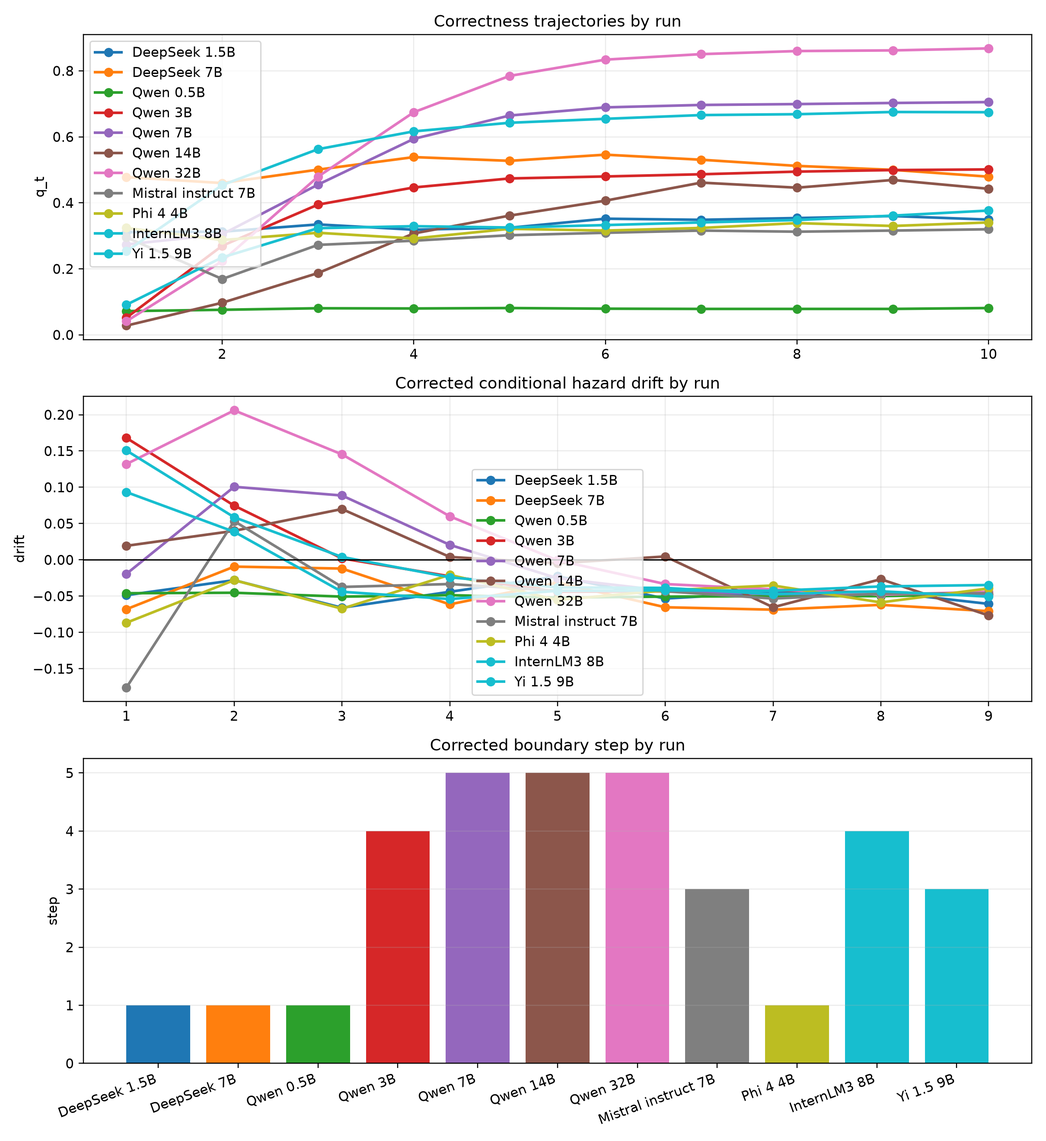
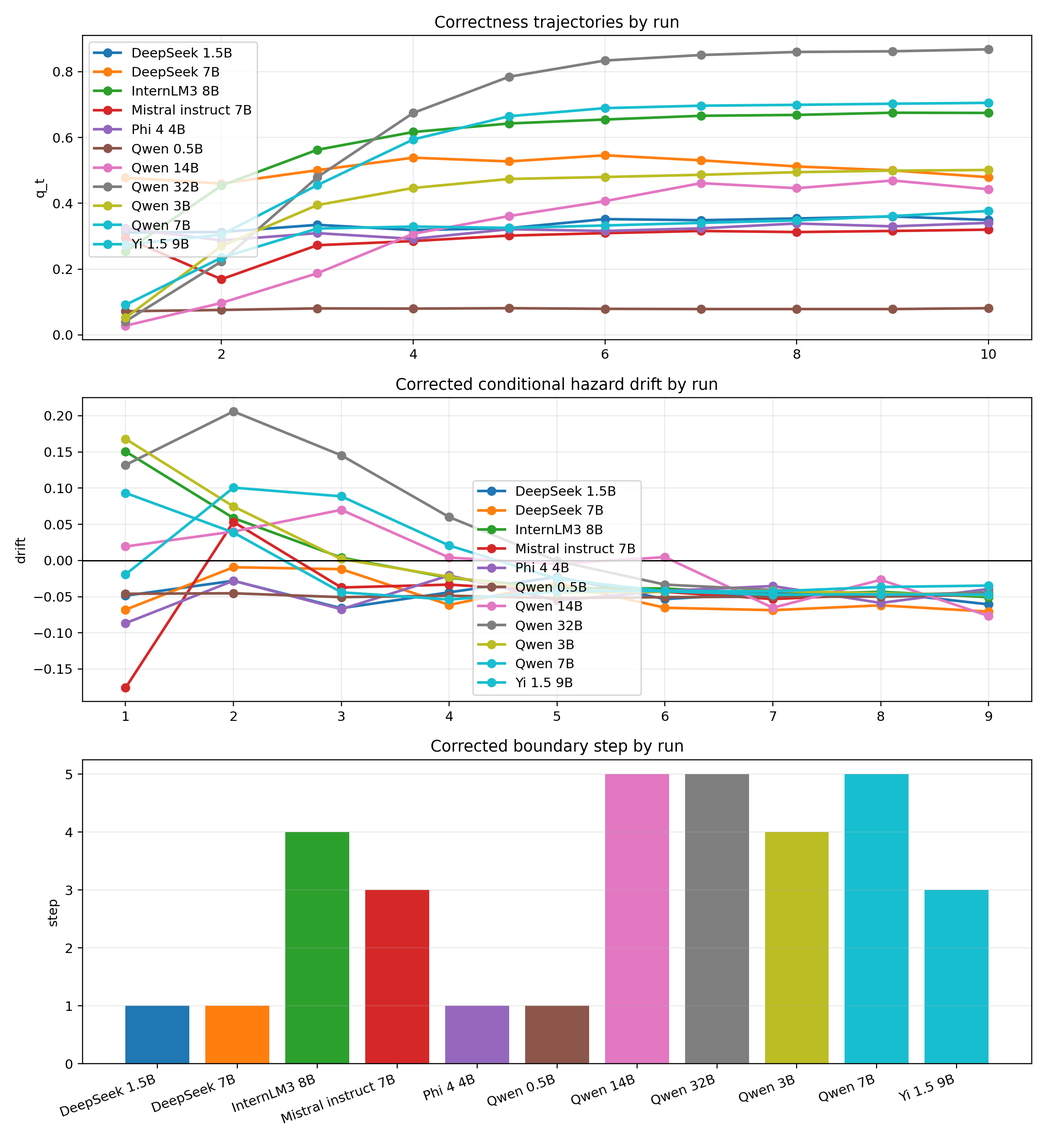
feat: data-driven cross-family summary + MATH dataset parser
- cross_family_analysis.py: replace hardcoded "Qwen 7B is the only late
  witness" executive summary and open-questions text with data-driven prose
  computed from the actual runs (counts, families, specific runs/boundaries),
  so it can't go stale as the model set grows. Regenerated the 11-model
  GSM8K cross-family report with the corrected summary.
- real_trace_experiments.py: add MATH support -- load_math_tasks
  (HuggingFaceH4/MATH-500, fallback lighteval/MATH), answer_type "math" with
  LaTeX-normalizing + numeric + sympy(^->**, implicit-mult) equivalence
  grading; wire verify_answer/normalize_answer/extract_typed_answer/load_tasks
  and add "math" to --task-source choices.
- run_experiment_matrix.py: register "math" in the DATASETS registry.

diff --git a/research/real_trace_experiments.py b/research/real_trace_experiments.py
@@ -515,7 +515,76 @@ def extract_numeric_candidate(text: str) -> str:
     return ""
 
 
+def _strip_latex_math(text: str) -> str:
+    """Reduce a LaTeX/competition-math answer to a compact comparable form."""
+    s = str(text).strip()
+    if "=" in s and not any(op in s for op in ("<=", ">=", "==", "!=")):
+        s = s.split("=")[-1].strip()  # keep the RHS of "x = ..."
+    s = re.sub(r"^\$+|\$+$", "", s).strip()
+    boxed = re.findall(r"\\boxed\{(.+?)\}", s)
+    if boxed:
+        s = boxed[-1]
+    s = re.sub(r"\\(?:text|mathrm|mbox|mathbf|mathit|operatorname)\s*\{([^{}]*)\}", r"\1", s)
+    s = s.replace("\\dfrac", "\\frac").replace("\\tfrac", "\\frac")
+    s = re.sub(r"\\frac\{([^{}]+)\}\{([^{}]+)\}", r"((\1)/(\2))", s)
+    s = re.sub(r"\\frac\s*(\d)\s*(\d)", r"((\1)/(\2))", s)
+    s = re.sub(r"\\sqrt\{([^{}]+)\}", r"sqrt(\1)", s)
+    s = re.sub(r"\\sqrt\s*(\w)", r"sqrt(\1)", s)
+    s = s.replace("\\cdot", "*").replace("\\times", "*").replace("\\div", "/").replace("\\pi", "pi")
+    for token in ("\\left", "\\right", "\\!", "\\,", "\\;", "\\:", "\\ ", "\\$",
+                  "\\(", "\\)", "\\[", "\\]", "^{\\circ}", "^\\circ", "\\circ", "\\%", "%", "$"):
+        s = s.replace(token, "")
+    s = s.replace("{", "").replace("}", "").replace("\\", "")
+    s = re.sub(r"(?<=\d),(?=\d{3}\b)", "", s)  # 1,000 -> 1000
+    return s.replace(" ", "").rstrip(".").strip()
+
+
+def normalize_math_answer(raw_answer: str) -> str:
+    if raw_answer is None:
+        return ""
+    s = _strip_latex_math(raw_answer)
+    if s == "":
+        return ""
+    bare = s.replace("(", "").replace(")", "")
+    if re.fullmatch(r"-?\d+(\.\d+)?", bare) or re.fullmatch(r"-?\d+/-?\d+", bare):
+        try:
+            frac = Fraction(bare).limit_denominator(10**6)
+            return str(frac.numerator) if frac.denominator == 1 else f"{frac.numerator}/{frac.denominator}"
+        except (ValueError, ZeroDivisionError):
+            pass
+    return s.lower()
+
+
+def math_answers_equivalent(candidate: str, expected: str) -> bool:
+    norm_candidate = normalize_math_answer(candidate)
+    norm_expected = normalize_math_answer(expected)
+    if not norm_expected:
+        return False
+    if norm_candidate == norm_expected:
+        return True
+    try:
+        if abs(float(norm_candidate) - float(norm_expected)) < 1e-6:
+            return True
+    except (ValueError, TypeError):
+        pass
+    try:  # symbolic fallback; sympy ships as an indirect torch dependency
+        import sympy
+        from sympy.parsing.sympy_parser import (
+            parse_expr, standard_transformations, implicit_multiplication_application,
+        )
+        transforms = standard_transformations + (implicit_multiplication_application,)
+        expr_a = parse_expr(norm_candidate.replace("^", "**"), transformations=transforms)
+        expr_b = parse_expr(norm_expected.replace("^", "**"), transformations=transforms)
+        if sympy.simplify(expr_a - expr_b) == 0:
+            return True
+    except Exception:  # noqa: BLE001 -- unparseable expressions just fall through
+        pass
+    return False
+
+
 def normalize_answer(raw_answer: str, answer_type: str) -> str:
+    if answer_type == "math":
+        return normalize_math_answer(raw_answer)
     text = raw_answer.strip().lower()
     text = re.sub(r"\s+", " ", text)
     boxed_matches = re.findall(r"\\boxed\{([^{}]+)\}", text)
@@ -542,6 +611,8 @@ def normalize_answer(raw_answer: str, answer_type: str) -> str:
 
 
 def verify_answer(task: TaskSpec, candidate_answer: str) -> bool:
+    if task.answer_type == "math":
+        return math_answers_equivalent(candidate_answer, task.expected_answer)
     return normalize_answer(candidate_answer, task.answer_type) == normalize_answer(task.expected_answer, task.answer_type)
 
 
@@ -633,6 +704,9 @@ def extract_typed_answer(text: str, answer_type: str) -> str:
     boxed_matches = re.findall(r"\\boxed\{([^{}]+)\}", stripped)
     if boxed_matches:
         stripped = boxed_matches[-1].strip()
+
+    if answer_type == "math":
+        return stripped.strip()
 
     lowered = stripped.lower()
     if answer_type == "day":
@@ -818,11 +892,65 @@ def load_gsm8k_tasks(max_tasks: int, dataset_split: str, shuffle_seed: int | Non
     return tasks
 
 
+def load_math_tasks(max_tasks: int, dataset_split: str, shuffle_seed: int | None) -> list[TaskSpec]:
+    """Competition MATH. Uses HuggingFaceH4/MATH-500 (500 problems, openly
+    available); falls back to lighteval/MATH. Answers are graded with
+    math_answers_equivalent (LaTeX-normalized + numeric + sympy fallback)."""
+    if load_dataset is None:
+        raise ImportError("datasets is required for --task-source math. Install it with pip install datasets.")
+    split = dataset_split if dataset_split and dataset_split not in {"train", "main"} else "test"
+    dataset = None
+    last_exc: Exception | None = None
+    for repo, kwargs in (("HuggingFaceH4/MATH-500", {}), ("lighteval/MATH", {"name": "all"})):
+        try:
+            dataset = load_dataset(repo, split=split, **kwargs)
+            break
+        except Exception as exc:  # noqa: BLE001 -- try the next source
+            last_exc = exc
+    if dataset is None:
+        raise RuntimeError(
+            "Failed to load a MATH dataset (tried HuggingFaceH4/MATH-500 and lighteval/MATH). "
+            f"Check HuggingFace access on the VM. Error details: {last_exc}"
+        )
+    if shuffle_seed is not None:
+        dataset = dataset.shuffle(seed=shuffle_seed)
+    if max_tasks > 0 and len(dataset) > max_tasks:
+        dataset = dataset.select(range(max_tasks))
+
+    split_name = sanitize_split_name(split)
+    tasks: list[TaskSpec] = []
+    for index, example in enumerate(dataset):
+        problem = str(example.get("problem", "")).strip()
+        answer = example.get("answer")
+        if answer is None or str(answer).strip() == "":
+            boxed = re.findall(r"\\boxed\{(.+?)\}", str(example.get("solution", "")))
+            answer = boxed[-1] if boxed else str(example.get("solution", ""))
+        level = str(example.get("level", "")).strip()
+        subject = str(example.get("subject", example.get("type", ""))).strip()
+        short_hash = hashlib.md5(problem.encode("utf-8")).hexdigest()[:8]
+        tasks.append(
+            TaskSpec(
+                task_id=f"math_{split_name}_{index:05d}_{short_hash}",
+                domain="math",
+                difficulty=(f"MATH {level}".strip() or "competition_math"),
+                prompt=problem,
+                answer_type="math",
+                expected_answer=str(answer).strip(),
+                notes=f"MATH split={split} subject={subject} level={level}",
+                source="math",
+                source_index=index,
+            )
+        )
+    return tasks
+
+
 def load_tasks(task_source: str, max_tasks: int, dataset_split: str, shuffle_seed: int | None) -> list[TaskSpec]:
     if task_source == "builtin":
         return BUILTIN_TASKS[:max_tasks]
     if task_source == "gsm8k":
         return load_gsm8k_tasks(max_tasks=max_tasks, dataset_split=dataset_split, shuffle_seed=shuffle_seed)
+    if task_source == "math":
+        return load_math_tasks(max_tasks=max_tasks, dataset_split=dataset_split, shuffle_seed=shuffle_seed)
     raise ValueError(f"Unsupported task source: {task_source}")
 
 
@@ -1987,7 +2115,7 @@ def main() -> None:
     parser.add_argument("--max-steps", type=int, default=5)
     parser.add_argument("--max-new-tokens", type=int, default=256)
     parser.add_argument("--max-tasks", type=int, default=len(BUILTIN_TASKS))
-    parser.add_argument("--task-source", default="builtin", choices=["builtin", "gsm8k"])
+    parser.add_argument("--task-source", default="builtin", choices=["builtin", "gsm8k", "math"])
     parser.add_argument("--dataset-split", default="train")
     parser.add_argument("--dataset-shuffle-seed", type=int, default=17)
     parser.add_argument("--batch-size", type=int, default=4)

diff --git a/research/cross_family_analysis.py b/research/cross_family_analysis.py
@@ -365,23 +365,52 @@ def markdown_table(headers: list[str], rows: list[list[str]]) -> list[str]:
     return lines
 
 
+def _run_listing(df: pd.DataFrame) -> str:
+    parts = []
+    for _, row in df.iterrows():
+        boundary = row["corrected_boundary_step"]
+        boundary = "n/a" if pd.isna(boundary) else f"step {int(boundary)}"
+        parts.append(f"{row['run_label']} ({boundary})")
+    return "; ".join(parts)
+
+
 def strongest_cross_family_conclusion(summary_df: pd.DataFrame) -> str:
+    # Data-driven: computed from the actual runs so it never goes stale as the
+    # model set grows. Reports counts/families/specific runs rather than naming
+    # fixed models.
     capable = summary_df[summary_df["capability_gate_met"] == True]
-    strong_late = capable[capable["late_boundary_assessment"].isin(["Exact step-7 replication", "Late-boundary replication"])]
-    supportive_late = capable[
-        capable["late_boundary_assessment"].isin(
-            ["Exact step-7 replication", "Late-boundary replication", "Weakened late-boundary support"]
-        )
-    ]
     if capable.empty:
         return "No run currently clears the capability gate, so the repo still lacks a theorem-facing cross-family boundary witness."
-    if strong_late["family"].nunique() >= 2:
-        return "A materially late overthinking boundary now appears in at least two capable families under the matched GSM8K protocol, so cross-family support is materially stronger."
-    if strong_late["family"].nunique() == 1 and supportive_late["family"].nunique() >= 2:
-        return "Qwen 7B remains the only clearly late corrected-boundary witness, but Mistral 7B now adds a weaker non-Qwen step-3 boundary with a large never-stop penalty. Cross-family evidence is therefore stronger than a single-family story, but full late-boundary robustness is still unproven."
-    if supportive_late["family"].nunique() == 1:
-        return "Late-boundary evidence is still confined to a single capable family, so cross-family robustness remains unproven."
-    return "After the hazard audit, the current matched GSM8K evidence does not support a late conditional-hazard boundary in any available run."
+    strong = capable[capable["late_boundary_assessment"].isin(["Exact step-7 replication", "Late-boundary replication"])]
+    supportive = capable[capable["late_boundary_assessment"].isin(
+        ["Exact step-7 replication", "Late-boundary replication", "Weakened late-boundary support"])]
+    strong_fams = sorted(strong["family"].unique())
+    sup_fams = sorted(supportive["family"].unique())
+
+    if strong.empty:
+        if supportive.empty:
+            return "No capable run shows a late corrected boundary under the matched protocol."
+        return (f"No run shows a clearly late corrected boundary, but {len(supportive)} capable run(s) across "
+                f"{len(sup_fams)} family/families ({', '.join(sup_fams)}) show weaker late-boundary support: "
+                f"{_run_listing(supportive)}.")
+
+    sentence = (f"A clearly late corrected boundary replicates in {len(strong)} capable run(s) across "
+                f"{len(strong_fams)} family/families: {_run_listing(strong)}.")
+    extra = supportive[~supportive.index.isin(strong.index)]
+    if not extra.empty:
+        extra_fams = sorted(extra["family"].unique())
+        sentence += (f" An additional {len(extra)} run(s) across {len(extra_fams)} family/families "
+                     f"({', '.join(extra_fams)}) add weaker late-boundary support: {_run_listing(extra)}.")
+    if len(strong_fams) >= 2:
+        sentence += " Cross-family support for a late overthinking boundary is now strong."
+    elif len(sup_fams) >= 2:
+        sentence += (f" The clearly-late evidence is concentrated in the {strong_fams[0]} family, with weaker "
+                     f"corroboration from {len(sup_fams) - 1} other family/families; cross-family support is "
+                     f"materially stronger than a single-witness story, though a clearly-late non-{strong_fams[0]} "
+                     f"witness is still pending.")
+    else:
+        sentence += " Late-boundary evidence remains confined to a single capable family, so cross-family robustness is not yet established."
+    return sentence
 
 
 def build_report_markdown(
@@ -523,7 +552,12 @@ def open_question_rows(summary_df: pd.DataFrame) -> list[dict[str, str]]:
         boundary_answer = "A materially late boundary is present in at least two capable families under the matched GSM8K protocol."
     elif strong_late_runs["family"].nunique() == 1 and supportive_late_runs["family"].nunique() >= 2:
         boundary_status = "partially answered"
-        boundary_answer = "A clearly late boundary is still supported in only one capable family, but Mistral adds weaker second-family support with a corrected step-3 crossing and a large never-stop penalty. Cross-family robustness is stronger than before, but not yet settled."
+        lone_family = sorted(strong_late_runs["family"].unique())[0]
+        n_other = supportive_late_runs["family"].nunique() - 1
+        boundary_answer = (f"A clearly late boundary replicates within one capable family ({lone_family}, "
+                           f"{len(strong_late_runs)} run(s)), with weaker support from {n_other} other family/families. "
+                           f"Cross-family robustness is materially stronger than a single-witness story, but not fully "
+                           f"settled until a clearly-late non-{lone_family} witness appears.")
     elif supportive_late_runs["family"].nunique() == 1:
         boundary_status = "partially answered"
         boundary_answer = "A late boundary is only supported in one capable family so far, so cross-family robustness is still unproven."

diff --git a/research/run_experiment_matrix.py b/research/run_experiment_matrix.py
@@ -86,7 +86,7 @@ CANONICAL = {
 DATASETS: dict[str, dict[str, Any]] = {
     "gsm8k": {"split": "train", "max_tasks": 500, "max_steps": 10},
     "builtin": {"split": "train", "max_tasks": None, "max_steps": 5},
-    # "math":      {"split": "test", "max_tasks": 500, "max_steps": 14},  # needs parser
+    "math": {"split": "test", "max_tasks": 500, "max_steps": 14},
     # "humaneval": {"split": "test", "max_tasks": 164, "max_steps": 12},  # needs parser
 }
 DEFAULT_DATASETS = ["gsm8k"]

diff --git a/research/outputs/experiment_matrix/_aggregate/gsm8k/CROSS_FAMILY_REPORT.md b/research/outputs/experiment_matrix/_aggregate/gsm8k/CROSS_FAMILY_REPORT.md
@@ -1,7 +1,7 @@
 # Cross-Family Report
 
 ## Executive Summary
-Qwen 7B remains the only clearly late corrected-boundary witness, but Mistral 7B now adds a weaker non-Qwen step-3 boundary with a large never-stop penalty. Cross-family evidence is therefore stronger than a single-family story, but full late-boundary robustness is still unproven.
+A clearly late corrected boundary replicates in 3 capable run(s) across 1 family/families: Qwen 14B (step 5); Qwen 32B (step 5); Qwen 7B (step 5). An additional 4 run(s) across 4 family/families (InternLM3, Mistral instruct, Qwen2.5 instruct, Yi 1.5) add weaker late-boundary support: InternLM3 8B (step 4); Mistral instruct 7B (step 3); Qwen 3B (step 4); Yi 1.5 9B (step 3). The clearly-late evidence is concentrated in the Qwen2.5 instruct family, with weaker corroboration from 3 other family/families; cross-family support is materially stronger than a single-witness story, though a clearly-late non-Qwen2.5 instruct witness is still pending.
 
 Task IDs align across all 11 runs under the shared GSM8K train split and shuffle seed 17 protocol.
 
@@ -10,14 +10,14 @@ Task IDs align across all 11 runs under the shared GSM8K train split and shuffle
 | --- | --- | --- | --- | --- | --- | --- | --- | --- | --- | --- | --- | --- | --- | --- | --- | --- |
 | DeepSeek 1.5B | DeepSeek-R1 distill | 1.5B | transformers+torch(cuda) | none | 0.3113 | 0.3600 | 9 | 1 | 0.2231 | 0.4307 | 0.4436 | 0.4533 | 0.7886 | 0.2140 | 0.6264 | No late-boundary replication |
 | DeepSeek 7B | DeepSeek-R1 distill | 7B | transformers+torch(cuda) | none | 0.4780 | 0.5460 | 6 | 1 | 0.3636 | 0.3499 | 0.3297 | 0.6262 | 0.8275 | 0.1971 | 0.7278 | No late-boundary replication |
-| Qwen 0.5B | Qwen2.5 instruct | 0.5B | transformers+torch(cuda) | none | 0.0720 | 0.0813 | 5 | 1 | 0.0045 | 0.0404 | 0.0870 | 0.0655 | 0.4602 | 0.2411 | 0.5716 | No late-boundary replication |
-| Qwen 3B | Qwen2.5 instruct | 3B | transformers+torch(cuda) | none | 0.0520 | 0.5013 | 10 | 4 | 0.0907 | 0.0830 | 0.2634 | 0.2691 | 0.4918 | 0.2152 | 0.8130 | Weakened late-boundary support |
-| Qwen 7B | Qwen2.5 instruct | 7B | transformers+torch(cuda) | none | 0.2740 | 0.7053 | 10 | 5 | 0.1214 | 0.0634 | 0.2224 | 0.2349 | 0.4442 | 0.1955 | 0.8756 | Late-boundary replication |
-| Qwen 14B | Qwen2.5 instruct | 14B | transformers+torch(cuda) | none | 0.0280 | 0.4693 | 9 | 5 | 0.1427 | 0.2577 | 0.3842 | 0.4294 | 0.5981 | 0.1035 | 0.8948 | Late-boundary replication |
-| Qwen 32B | Qwen2.5 instruct | 32B | transformers+torch(cuda) | none | 0.0413 | 0.8680 | 10 | 5 | 0.2188 | 0.0611 | 0.1814 | 0.1966 | 0.3626 | 0.1526 | 0.9609 | Late-boundary replication |
+| InternLM3 8B | InternLM3 | 8B | transformers+torch(cuda) | none | 0.2533 | 0.6753 | 9 | 4 | 0.1073 | 0.0243 | 0.1914 | 0.2046 | 0.4466 | 0.2159 | 0.8639 | Weakened late-boundary support |
 | Mistral instruct 7B | Mistral instruct | 7B | transformers+torch(cuda) | none | 0.2953 | 0.3200 | 10 | 3 | 0.0526 | 0.1339 | 0.2647 | 0.2506 | 0.5533 | 0.2308 | 0.7294 | Weakened late-boundary support |
 | Phi 4 4B | Phi 4 | 4B | transformers+torch(cuda) | none | 0.3240 | 0.3407 | 10 | 1 | 0.1589 | 0.3427 | 0.4204 | 0.4609 | 0.7795 | 0.2309 | 0.6387 | No late-boundary replication |
-| InternLM3 8B | InternLM3 | 8B | transformers+torch(cuda) | none | 0.2533 | 0.6753 | 9 | 4 | 0.1073 | 0.0243 | 0.1914 | 0.2046 | 0.4466 | 0.2159 | 0.8639 | Weakened late-boundary support |
+| Qwen 0.5B | Qwen2.5 instruct | 0.5B | transformers+torch(cuda) | none | 0.0720 | 0.0813 | 5 | 1 | 0.0045 | 0.0404 | 0.0870 | 0.0655 | 0.4602 | 0.2411 | 0.5716 | No late-boundary replication |
+| Qwen 14B | Qwen2.5 instruct | 14B | transformers+torch(cuda) | none | 0.0280 | 0.4693 | 9 | 5 | 0.1427 | 0.2577 | 0.3842 | 0.4294 | 0.5981 | 0.1035 | 0.8948 | Late-boundary replication |
+| Qwen 32B | Qwen2.5 instruct | 32B | transformers+torch(cuda) | none | 0.0413 | 0.8680 | 10 | 5 | 0.2188 | 0.0611 | 0.1814 | 0.1966 | 0.3626 | 0.1526 | 0.9609 | Late-boundary replication |
+| Qwen 3B | Qwen2.5 instruct | 3B | transformers+torch(cuda) | none | 0.0520 | 0.5013 | 10 | 4 | 0.0907 | 0.0830 | 0.2634 | 0.2691 | 0.4918 | 0.2152 | 0.8130 | Weakened late-boundary support |
+| Qwen 7B | Qwen2.5 instruct | 7B | transformers+torch(cuda) | none | 0.2740 | 0.7053 | 10 | 5 | 0.1214 | 0.0634 | 0.2224 | 0.2349 | 0.4442 | 0.1955 | 0.8756 | Late-boundary replication |
 | Yi 1.5 9B | Yi 1.5 | 9B | transformers+torch(cuda) | none | 0.0913 | 0.3767 | 10 | 3 | 0.1001 | 0.1550 | 0.2582 | 0.2392 | 0.5358 | 0.2206 | 0.7609 | Weakened late-boundary support |
 
 ## Drift Audit
@@ -25,14 +25,14 @@ Task IDs align across all 11 runs under the shared GSM8K train split and shuffle
 | --- | --- | --- | --- | --- | --- |
 | DeepSeek 1.5B | 1 | 1 | 1 | 3 | yes |
 | DeepSeek 7B | 1 | 1 | 3 | 1 | no |
-| Qwen 0.5B | 1 | 1 | 1 | 1 | no |
-| Qwen 3B | 4 | 4 | 3 | 3 | yes |
-| Qwen 7B | 5 | 5 | 5 | 4 | yes |
-| Qwen 14B | 5 | 5 | 7 | 5 | no |
-| Qwen 32B | 5 | 5 | 5 | 4 | yes |
+| InternLM3 8B | 4 | 4 | 4 | 3 | yes |
 | Mistral instruct 7B | 3 | 3 | 5 | 3 | no |
 | Phi 4 4B | 1 | 1 | 3 | 3 | yes |
-| InternLM3 8B | 4 | 4 | 4 | 3 | yes |
+| Qwen 0.5B | 1 | 1 | 1 | 1 | no |
+| Qwen 14B | 5 | 5 | 7 | 5 | no |
+| Qwen 32B | 5 | 5 | 5 | 4 | yes |
+| Qwen 3B | 4 | 4 | 3 | 3 | yes |
+| Qwen 7B | 5 | 5 | 5 | 4 | yes |
 | Yi 1.5 9B | 3 | 3 | 3 | 3 | no |
 
 ## Detector Rankings
@@ -44,30 +44,30 @@ Task IDs align across all 11 runs under the shared GSM8K train split and shuffle
 | DeepSeek 7B | oracle | 1 | 0.0000 | 0.000 |
 | DeepSeek 7B | verifier_first_correct | 2 | 0.0411 | 0.091 |
 | DeepSeek 7B | hazard_drift | 3 | 0.3297 | 0.851 |
-| Qwen 0.5B | oracle | 1 | 0.0000 | 0.000 |
-| Qwen 0.5B | first_answer | 2 | 0.0195 | 0.000 |
-| Qwen 0.5B | e_process | 3 | 0.0655 | 0.979 |
-| Qwen 3B | oracle | 1 | 0.0000 | 0.000 |
-| Qwen 3B | verifier_first_correct | 2 | 0.1794 | 0.399 |
-| Qwen 3B | answer_stability | 3 | 0.2570 | 0.877 |
-| Qwen 7B | oracle | 1 | 0.0000 | 0.000 |
-| Qwen 7B | verifier_first_correct | 2 | 0.1074 | 0.239 |
-| Qwen 7B | answer_stability | 3 | 0.2131 | 0.947 |
-| Qwen 14B | oracle | 1 | 0.0000 | 0.000 |
-| Qwen 14B | verifier_first_correct | 2 | 0.1257 | 0.279 |
-| Qwen 14B | hazard_drift | 3 | 0.3842 | 0.479 |
-| Qwen 32B | oracle | 1 | 0.0000 | 0.000 |
-| Qwen 32B | verifier_first_correct | 2 | 0.0504 | 0.112 |
-| Qwen 32B | hazard_drift | 3 | 0.1814 | 0.851 |
+| InternLM3 8B | oracle | 1 | 0.0000 | 0.000 |
+| InternLM3 8B | verifier_first_correct | 2 | 0.1257 | 0.279 |
+| InternLM3 8B | answer_stability | 3 | 0.1875 | 0.896 |
 | Mistral instruct 7B | oracle | 1 | 0.0000 | 0.000 |
 | Mistral instruct 7B | first_answer | 2 | 0.1280 | 0.000 |
 | Mistral instruct 7B | e_process | 3 | 0.2506 | 0.912 |
 | Phi 4 4B | oracle | 1 | 0.0000 | 0.000 |
 | Phi 4 4B | verifier_first_correct | 2 | 0.1257 | 0.279 |
 | Phi 4 4B | first_answer | 3 | 0.3462 | 0.000 |
-| InternLM3 8B | oracle | 1 | 0.0000 | 0.000 |
-| InternLM3 8B | verifier_first_correct | 2 | 0.1257 | 0.279 |
-| InternLM3 8B | answer_stability | 3 | 0.1875 | 0.896 |
+| Qwen 0.5B | oracle | 1 | 0.0000 | 0.000 |
+| Qwen 0.5B | first_answer | 2 | 0.0195 | 0.000 |
+| Qwen 0.5B | e_process | 3 | 0.0655 | 0.979 |
+| Qwen 14B | oracle | 1 | 0.0000 | 0.000 |
+| Qwen 14B | verifier_first_correct | 2 | 0.1257 | 0.279 |
+| Qwen 14B | hazard_drift | 3 | 0.3842 | 0.479 |
+| Qwen 32B | oracle | 1 | 0.0000 | 0.000 |
+| Qwen 32B | verifier_first_correct | 2 | 0.0504 | 0.112 |
+| Qwen 32B | hazard_drift | 3 | 0.1814 | 0.851 |
+| Qwen 3B | oracle | 1 | 0.0000 | 0.000 |
+| Qwen 3B | verifier_first_correct | 2 | 0.1794 | 0.399 |
+| Qwen 3B | answer_stability | 3 | 0.2570 | 0.877 |
+| Qwen 7B | oracle | 1 | 0.0000 | 0.000 |
+| Qwen 7B | verifier_first_correct | 2 | 0.1074 | 0.239 |
+| Qwen 7B | answer_stability | 3 | 0.2131 | 0.947 |
 | Yi 1.5 9B | oracle | 1 | 0.0000 | 0.000 |
 | Yi 1.5 9B | verifier_first_correct | 2 | 0.2196 | 0.488 |
 | Yi 1.5 9B | e_process | 3 | 0.2392 | 0.749 |
@@ -77,14 +77,14 @@ Task IDs align across all 11 runs under the shared GSM8K train split and shuffle
 | --- | --- | --- |
 | DeepSeek 1.5B | answer revision flag (answer_changed, coeff=-0.720) | answer revision flag (answer_changed, coeff=0.355) |
 | DeepSeek 7B | answer revision flag (answer_changed, coeff=-0.925) | answer revision flag (answer_changed, coeff=0.224) |
-| Qwen 0.5B | token entropy (entropy_mean, coeff=-0.364) | answer revision flag (answer_changed, coeff=0.551) |
-| Qwen 3B | self-reported confidence (confidence, coeff=0.738) | answer revision flag (answer_changed, coeff=0.414) |
-| Qwen 7B | self-reported confidence (confidence, coeff=0.741) | token entropy (entropy_mean, coeff=1.116) |
-| Qwen 14B | hidden-state L2 drift (hidden_l2_shift, coeff=1.753) | answer revision flag (answer_changed, coeff=0.980) |
-| Qwen 32B | hidden-state L2 drift (hidden_l2_shift, coeff=1.157) | token entropy (entropy_mean, coeff=1.700) |
+| InternLM3 8B | hidden-state L2 drift (hidden_l2_shift, coeff=0.411) | answer revision flag (answer_changed, coeff=0.503) |
 | Mistral instruct 7B | answer revision flag (answer_changed, coeff=-0.552) | answer revision flag (answer_changed, coeff=0.581) |
 | Phi 4 4B | answer revision flag (answer_changed, coeff=-0.567) | answer revision flag (answer_changed, coeff=0.325) |
-| InternLM3 8B | hidden-state L2 drift (hidden_l2_shift, coeff=0.411) | answer revision flag (answer_changed, coeff=0.503) |
+| Qwen 0.5B | token entropy (entropy_mean, coeff=-0.364) | answer revision flag (answer_changed, coeff=0.551) |
+| Qwen 14B | hidden-state L2 drift (hidden_l2_shift, coeff=1.753) | answer revision flag (answer_changed, coeff=0.980) |
+| Qwen 32B | hidden-state L2 drift (hidden_l2_shift, coeff=1.157) | token entropy (entropy_mean, coeff=1.700) |
+| Qwen 3B | self-reported confidence (confidence, coeff=0.738) | answer revision flag (answer_changed, coeff=0.414) |
+| Qwen 7B | self-reported confidence (confidence, coeff=0.741) | token entropy (entropy_mean, coeff=1.116) |
 | Yi 1.5 9B | self-reported confidence (confidence, coeff=1.049) | token entropy (entropy_mean, coeff=0.710) |
 
 ## Figures

diff --git a/research/outputs/experiment_matrix/_aggregate/gsm8k/CROSS_FAMILY_OPEN_QUESTIONS.md b/research/outputs/experiment_matrix/_aggregate/gsm8k/CROSS_FAMILY_OPEN_QUESTIONS.md
@@ -2,7 +2,7 @@
 
 | Question | Status | Joint answer |
 | --- | --- | --- |
-| Is the boundary robust across model families? | partially answered | A clearly late boundary is still supported in only one capable family, but Mistral adds weaker second-family support with a corrected step-3 crossing and a large never-stop penalty. Cross-family robustness is stronger than before, but not yet settled. |
+| Is the boundary robust across model families? | partially answered | A clearly late boundary replicates within one capable family (Qwen2.5 instruct, 3 run(s)), with weaker support from 3 other family/families. Cross-family robustness is materially stronger than a single-witness story, but not fully settled until a clearly-late non-Qwen2.5 instruct witness appears. |
 | Does boundary location appear capability-linked? | answered | The weak Qwen control stays early while the higher-capability Qwen run moves later, which supports a capability-linked boundary location. |
 | Does detector ranking change with capability? | answered | Detector ranking changes across runs, so ranking is not invariant across capability regimes. |
 | Is answer revision or entropy more cross-family stable? | partially answered | Signal leadership is not stable yet: DeepSeek emphasizes answer revision, while Qwen-family evidence includes entropy or verbosity proxies. |
